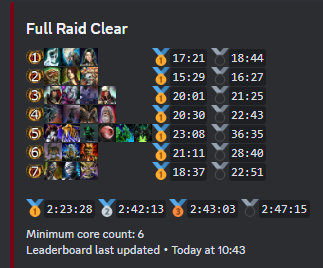
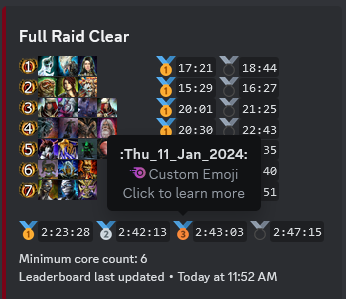
hover medal to see date of clear

diff --git a/gw2_database/scripts/leaderboards.py b/gw2_database/scripts/leaderboards.py
@@ -1,5 +1,6 @@
 # %%
 import datetime
+import re
 
 import discord
 import numpy as np
@@ -19,6 +20,7 @@ from scripts.log_helpers import (
     RANK_EMOTES_INVALID,
     WEBHOOKS,
     Thread,
+    create_discord_time,
     create_or_update_discord_message,
     get_avg_duration_str,
     get_duration_str,
@@ -61,7 +63,11 @@ def create_leaderboard(itype: str):
         if itype != "strike":
             description += f"{instance.emoji.discord_tag}"
             for idx, instance_clear in enumerate(iclear_success_all[:3]):
-                description += get_rank_duration_str(instance_clear, iclear_success_all, itype)
+                rank_duration_str = get_rank_duration_str(instance_clear, iclear_success_all, itype)
+                description += rank_duration_str.replace(
+                    re.findall(r":(.*?):", rank_duration_str)[0],
+                    instance_clear.dps_logs.first().pretty_time.replace(" ", "_"),
+                )
 
             if len(iclear_success_all) > 0:
                 # Add average cleartime of instance.
@@ -135,13 +141,6 @@ def create_leaderboard(itype: str):
         )
 
     # %%
-    itype = "fractal"
-
-    if settings.INCLUDE_NON_CORE_LOGS:
-        min_core_count = 0  # select all logs when including non core
-    else:
-        min_core_count = settings.CORE_MINIMUM[itype]
-
     # Create message for total clear time.
     instance_group = InstanceGroup.objects.get(name=itype)
     encounters = instance_group.encounters.all()
@@ -182,7 +181,12 @@ def create_leaderboard(itype: str):
         )
 
         for idx, instance_clear in enumerate(iclear_success_all[:1]):
-            description += get_rank_duration_str(instance_clear, iclear_success_all, itype)
+            # Add first rank time to message. The popup of the medal will give the date
+            rank_duration_str = get_rank_duration_str(instance_clear, iclear_success_all, itype)
+            description += rank_duration_str.replace(
+                re.findall(r":(.*?):", rank_duration_str)[0],
+                instance_clear.dps_logs.first().pretty_time.replace(" ", "_"),
+            )
 
         if len(iclear_success_all) > 0:
             # Add average clear times
@@ -205,7 +209,11 @@ def create_leaderboard(itype: str):
     )
 
     for idx, icleargroup in enumerate(icleargroup_success_all[:3]):
-        description += get_rank_duration_str(icleargroup, icleargroup_success_all, itype)
+        rank_duration_str = get_rank_duration_str(icleargroup, icleargroup_success_all, itype)
+        description += rank_duration_str.replace(
+            re.findall(r":(.*?):", rank_duration_str)[0],
+            icleargroup.instance_clears.first().dps_logs.first().pretty_time.replace(" ", "_"),
+        )
 
     if len(icleargroup_success_all) > 0:
         # Add average clear times
@@ -229,10 +237,6 @@ def create_leaderboard(itype: str):
 
 
 # %%
-
-
-# %%
-
 if __name__ == "__main__":
     for itype in [
         # "raid",

diff --git a/gw2_database/gw2_logs/models.py b/gw2_database/gw2_logs/models.py
@@ -290,6 +290,13 @@ class DpsLog(models.Model):
         return f"{self.emoji_tag}{{rank_str}}[{self.encounter.name}{cm_str}]({self.url}) \
 (**{mins}:{str(secs).zfill(2)}**)"
 
+    @property
+    def pretty_time(self):
+        if self.start_time is not None:
+            return self.start_time.strftime("%a %d %b %Y")
+        else:
+            return "No start time yet"
+
 
 class Guild(models.Model):
     name = models.CharField(max_length=100, null=True, blank=True)

diff --git a/README.md b/README.md
@@ -26,7 +26,10 @@ Clicking the skull icon will also open the log of that run. Does sadly not work 
 <img src="gw2_database/img/emboldened.png" width="20"/> Emboldened runs will not count towards leaderboards.
 ### Leaderboards
 <img src="img/leaderboard_message.png" width=""/>\
-<img src="gw2_database/img/medal/first.png" width="20"/> Click the medal to go to the dps report.
+<img src="gw2_database/img/medal/first.png" width="20"/> Click the medal to go to the dps report.\
+<img src="gw2_database/img/medal/first.png" width="20"/> Hover the medal if there is not a log to see the date
+of the run.
+
 
 # Installation
 The log manager is built on a django framework with a local sqlite database, only tested on Windows. All we need is a local python environment to run the scripts. Below installation is done with miniforge, but feel free
